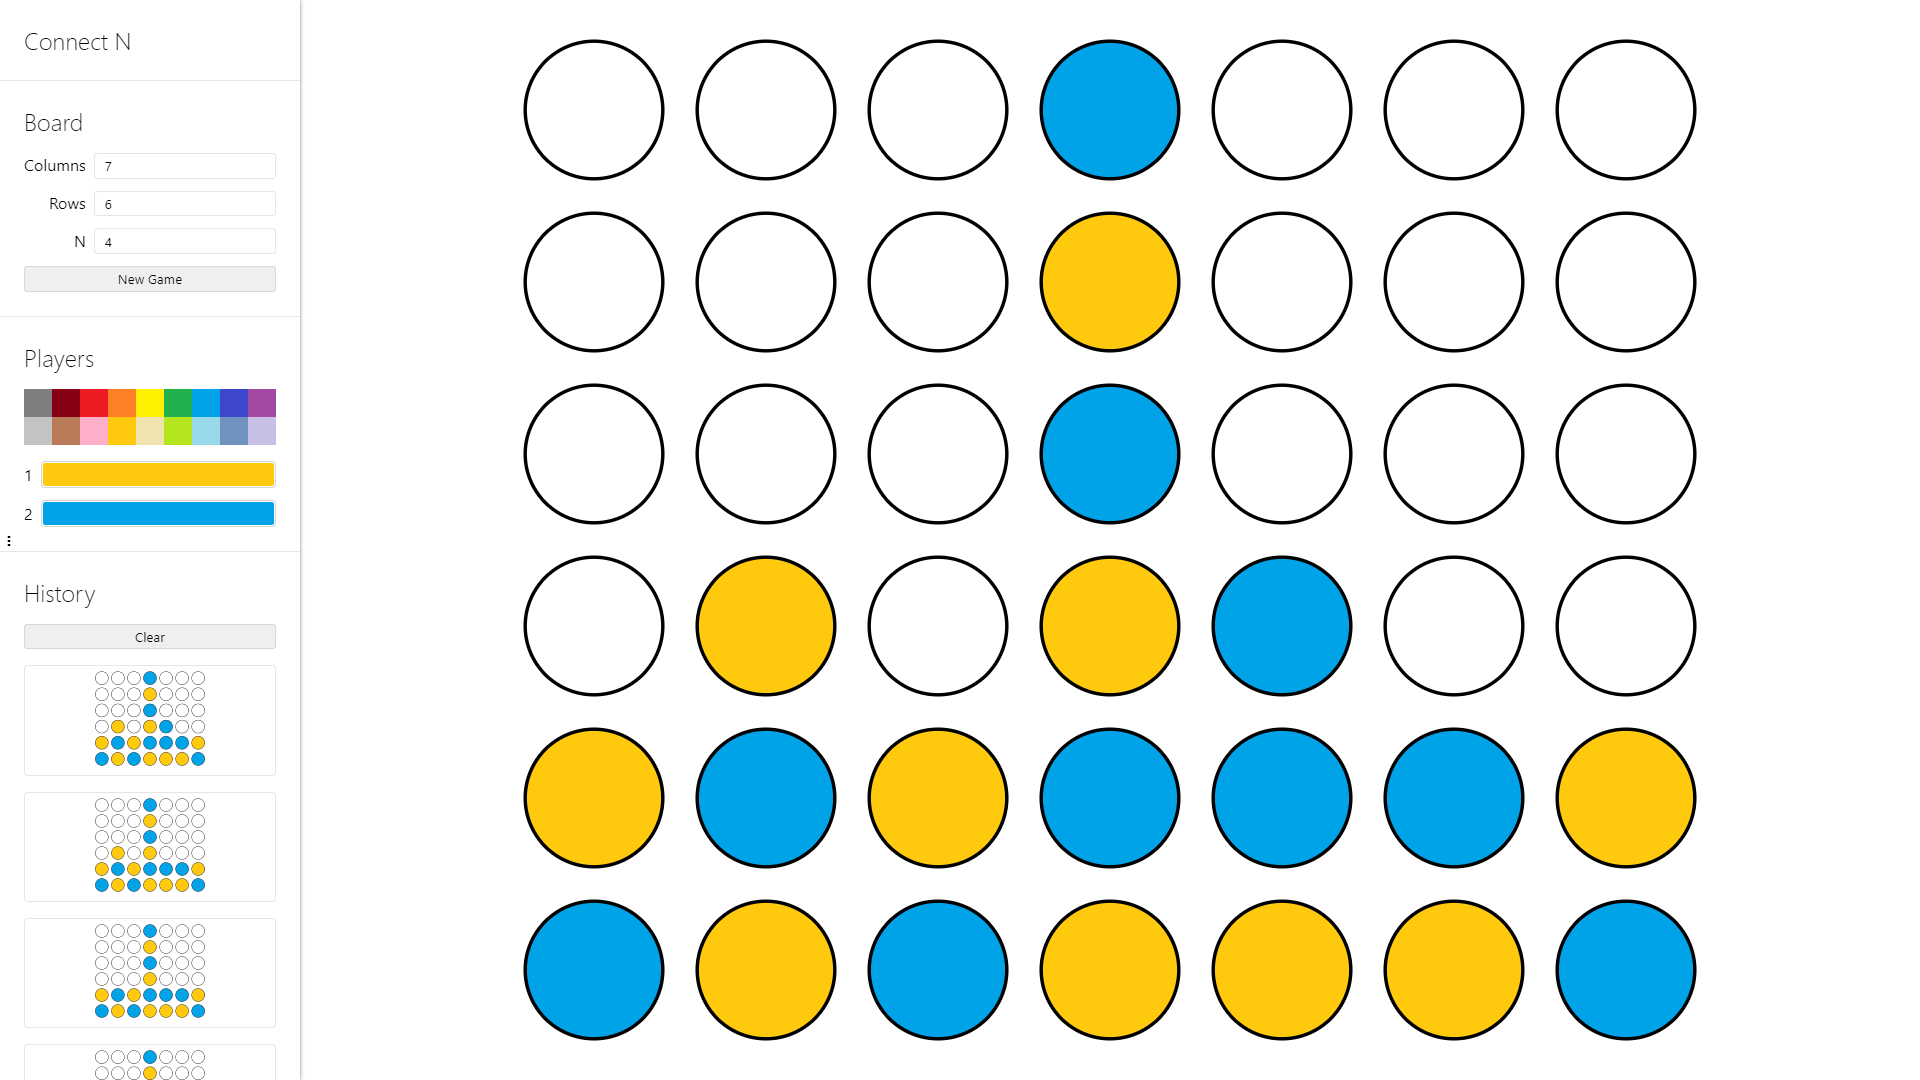
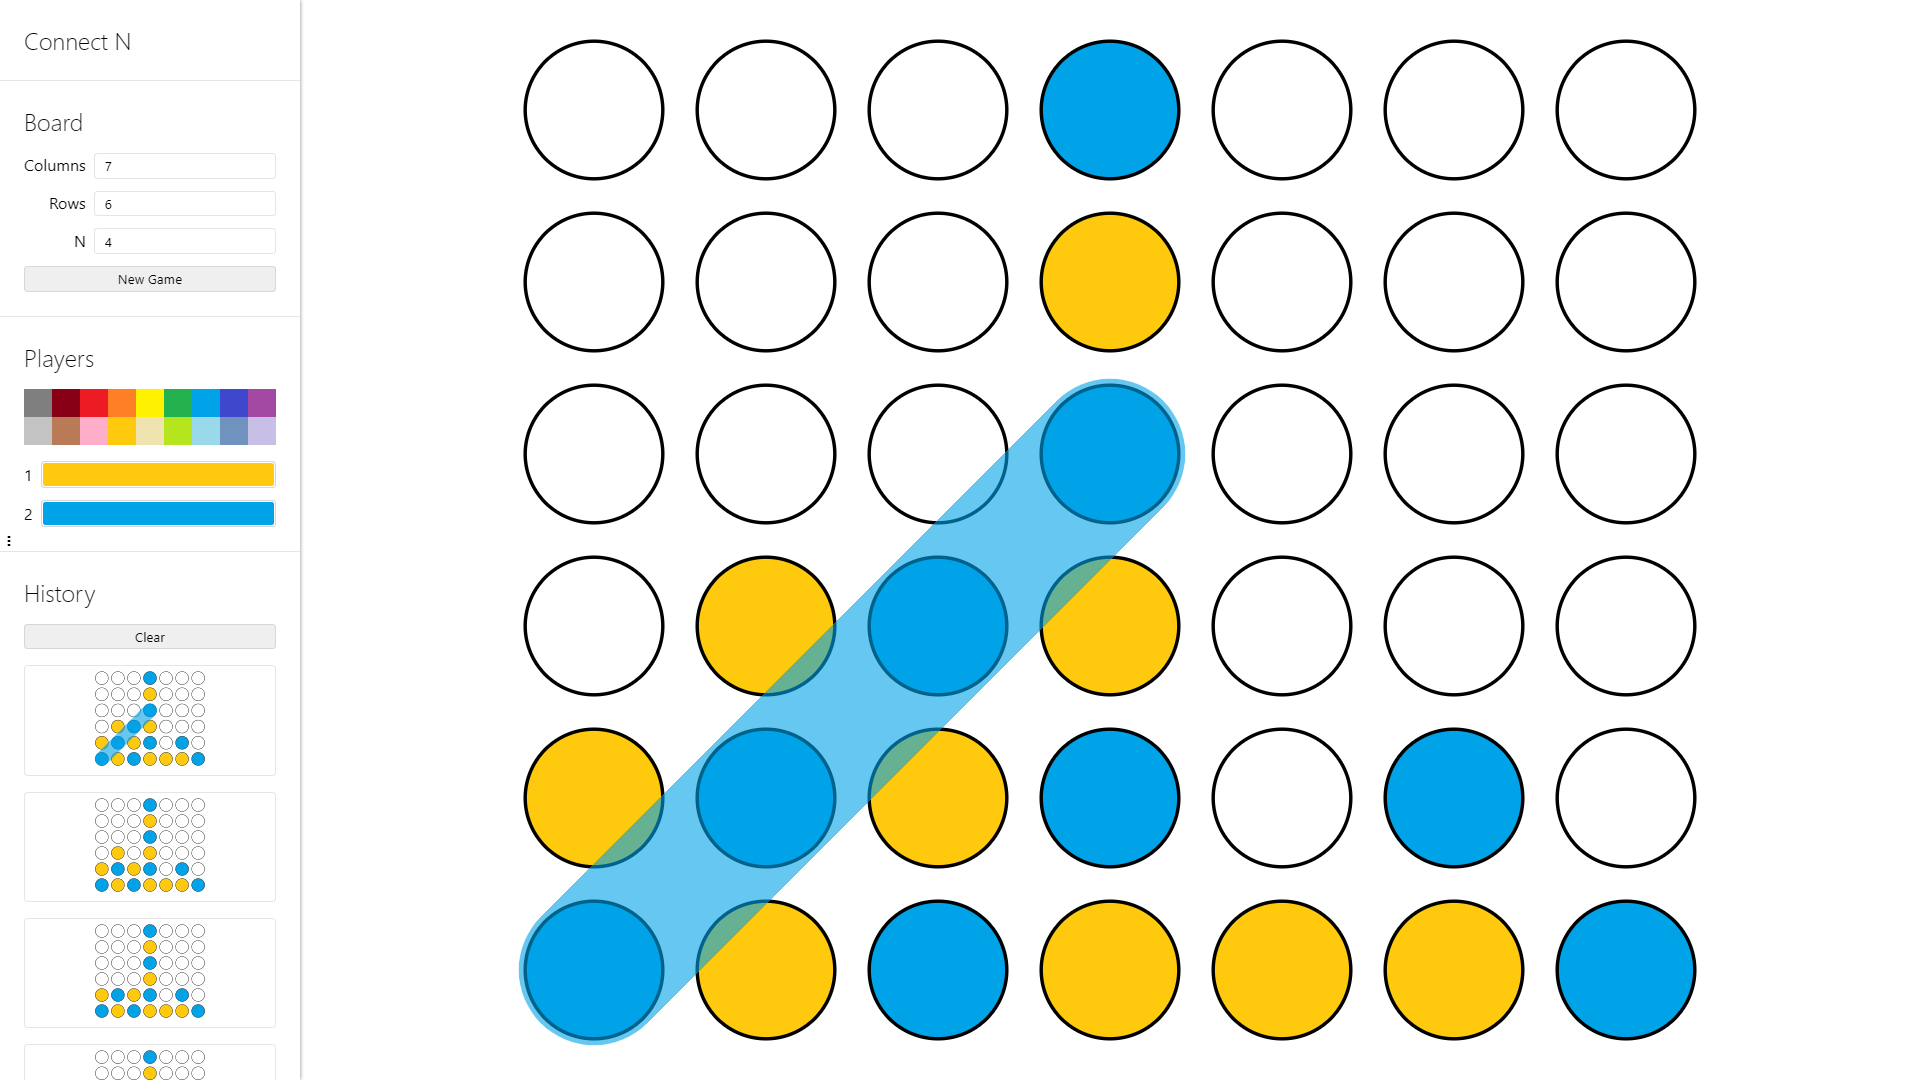
Add winning pieces indicator

diff --git a/src/connect-n.js b/src/connect-n.js
@@ -16,6 +16,7 @@
  * 	occupancies: ReadonlyArray<number>;
  * 	board: ReadonlyArray<ReadonlyArray<number>>;
  * 	winner: number;
+ * 	winningPieces: ReadonlyArray<ReadonlyArray<number>>;
  * 	draw: boolean;
  * }>} Game
  */
@@ -48,6 +49,7 @@ export function newGame(settings = newSettings()) {
 		occupancies: Object.freeze(Array(settings.columnCount).fill(0)),
 		board: emptyBoard(settings.columnCount, settings.rowCount),
 		winner: -1,
+		winningPieces: Object.freeze([]),
 		draw: false,
 	});
 }
@@ -95,6 +97,8 @@ export function makeMove(game, columnIndex) {
 		...previousBoard.slice(columnIndex + 1),
 	]);
 
+	const winningPieces = getWinningPieces(game.settings, board, columnIndex, rowIndex, activePlayer);
+
 	return Object.freeze({
 		...game,
 		piecesPlayed,
@@ -105,7 +109,8 @@ export function makeMove(game, columnIndex) {
 			...previousTargetRows.slice(columnIndex + 1),
 		]),
 		board,
-		winner: isWinner(game.settings, board, columnIndex, rowIndex, activePlayer) ? activePlayer : -1,
+		winner: winningPieces.length > 0 ? activePlayer : -1,
+		winningPieces,
 		draw: piecesPlayed === game.settings.slotCount,
 	});
 }
@@ -116,78 +121,70 @@ export function makeMove(game, columnIndex) {
  * @param {number} columnIndex
  * @param {number} rowIndex
  * @param {number} activePlayer
- * @returns {boolean}
+ * @returns {ReadonlyArray<ReadonlyArray<number>>}
  */
-export function isWinner(settings, board, columnIndex, rowIndex, activePlayer) {
+export function getWinningPieces(settings, board, columnIndex, rowIndex, activePlayer) {
 	const { columnCount, rowCount, piecesToWin } = settings;
 
-	let horizontal = 0;
-	let firstMatchFound = false;
+	const horizontalMatches = [];
 	for (let c = Math.max(columnIndex - (piecesToWin - 1), 0); c < Math.min(columnIndex + piecesToWin, columnCount); c++) {
 		if (board[c][rowIndex] === activePlayer) {
-			firstMatchFound = true;
-			horizontal++;
-		} else if (firstMatchFound) {
+			horizontalMatches.push(Object.freeze([c, rowIndex]));
+		} else if (horizontalMatches.length > 0) {
 			break;
 		}
 	}
-	if (horizontal >= piecesToWin) {
-		return true;
+	if (horizontalMatches.length >= piecesToWin) {
+		return Object.freeze(horizontalMatches);
 	}
 
-	let vertical = 0;
-	firstMatchFound = false;
+	const verticalMatches = [];
 	for (let r = Math.max(rowIndex - (piecesToWin - 1), 0); r < Math.min(rowIndex + piecesToWin, rowCount); r++) {
 		if (board[columnIndex][r] === activePlayer) {
-			firstMatchFound = true;
-			vertical++;
-		} else if (firstMatchFound) {
+			verticalMatches.push(Object.freeze([columnIndex, r]));
+		} else if (verticalMatches.length > 0) {
 			break;
 		}
 	}
-	if (vertical >= piecesToWin) {
-		return true;
+	if (verticalMatches.length >= piecesToWin) {
+		return Object.freeze(verticalMatches);
 	}
 
-	let diagonal = 0;
-	firstMatchFound = false;
+	const diagonal45Matches = [];
 	for (let i = -(piecesToWin - 1); i <= piecesToWin - 1; i++) {
 		const c = columnIndex + i;
 		const r = rowIndex + i;
 
 		if (c >= 0 && c < columnCount && r >= 0 && r < rowCount) {
 			if (board[c][r] === activePlayer) {
-				firstMatchFound = true;
-				diagonal++;
-			} else if (firstMatchFound) {
+				diagonal45Matches.push(Object.freeze([c, r]));
+			} else if (diagonal45Matches.length > 0) {
 				break;
 			}
 		}
 	}
-	if (diagonal >= piecesToWin) {
-		return true;
+	if (diagonal45Matches.length >= piecesToWin) {
+		return Object.freeze(diagonal45Matches);
 	}
 
-	diagonal = 0;
-	firstMatchFound = false;
+	const diagonal135Matches = [];
 	for (let i = -(piecesToWin - 1); i <= piecesToWin - 1; i++) {
 		const c = columnIndex + i;
 		const r = rowIndex - i;
 
 		if (c >= 0 && c < columnCount && r >= 0 && r < rowCount) {
 			if (board[c][r] === activePlayer) {
-				firstMatchFound = true;
-				diagonal++;
-			} else if (firstMatchFound) {
+				diagonal135Matches.push(Object.freeze([c, r]));
+			} else if (diagonal135Matches.length > 0) {
 				break;
 			}
 		}
 	}
-	if (diagonal >= piecesToWin) {
-		return true;
+	if (diagonal135Matches.length >= piecesToWin) {
+		return Object.freeze(diagonal135Matches);
 	}
 
-	return false;
+	return Object.freeze([]);
 }
 
 /**

diff --git a/src/connect-n-board.js b/src/connect-n-board.js
@@ -7,7 +7,7 @@ export class ConnectNBoard extends HTMLElement {
 	shadowRoot = this.attachShadow({ mode: 'open' });
 	disabled = false;
 	/**@type {import('./connect-n.js').Game | undefined}*/#game;
-	/**@type {SVGElement | undefined}*/#svg;
+	/**@type {SVGSVGElement | undefined}*/#svg;
 	/**@type {Map<string, SVGCircleElement>}*/#slots = new Map();
 
 	constructor() {
@@ -31,7 +31,11 @@ export class ConnectNBoard extends HTMLElement {
 				this.#slots.set(slot.dataset.columnIndex + ',' + slot.dataset.rowIndex, slot);
 			});
 
-			if (!this.disabled && !gameOver(game)) {
+			if (gameOver(game)) {
+				// highlightWinningPieces relies on getBBox which requires the element to be connected to the DOM, so we must perform this function on the next event loop tick
+				Promise.resolve().then(() => this.highlightWinningPieces(game.winningPieces, game.winner));
+			}
+			else if (!this.disabled) {
 				svg.style.setProperty('--cursor', `var(--player-${game.activePlayer}-cursor)`);
 			}
 
@@ -81,6 +85,7 @@ export class ConnectNBoard extends HTMLElement {
 
 				if (gameOver(nextGame)) {
 					this.#svg?.style.removeProperty('--cursor');
+					this.highlightWinningPieces(nextGame.winningPieces, nextGame.winner);
 				}
 				else {
 					this.#svg?.style.setProperty('--cursor', `var(--player-${nextGame.activePlayer}-cursor)`);
@@ -88,6 +93,32 @@ export class ConnectNBoard extends HTMLElement {
 			}
 		}
 	};
+
+	/**
+	 * @param {ReadonlyArray<ReadonlyArray<number>>} winningPieces
+	 * @param {number} winner
+	 */
+	highlightWinningPieces(winningPieces, winner) {
+		if (this.#svg && Array.isArray(winningPieces)) {
+			const start = this.#svg.querySelector(`[data-column-index='${winningPieces[0]?.[0]}'][data-row-index='${winningPieces[0]?.[1]}']`);
+			if (start instanceof SVGGraphicsElement) {
+				const end = this.#svg.querySelector(`[data-column-index='${winningPieces.at(-1)?.[0]}'][data-row-index='${winningPieces.at(-1)?.[1]}']`);
+				if (end instanceof SVGGraphicsElement) {
+					const c1 = start.getBBox();
+					const c2 = end.getBBox();
+					const line = document.createElementNS('http://www.w3.org/2000/svg', 'line');
+					line.classList.add('winning-line');
+					line.style.setProperty('stroke', `var(--player-${winner}-color`);
+					line.setAttribute('x1', String(c1.x + c1.width / 2));
+					line.setAttribute('y1', String(c1.y + c1.height / 2));
+					line.setAttribute('x2', String(c2.x + c1.width / 2));
+					line.setAttribute('y2', String(c2.y + c1.height / 2));
+					this.#svg.querySelector('.winning-line')?.remove();
+					this.#svg.querySelector('.board')?.append(line);
+				}
+			}
+		}
+	}
 }
 
 export const styleSheet = new CSSStyleSheet();

diff --git a/src/connect-n-game.js b/src/connect-n-game.js
@@ -97,7 +97,7 @@ export class ConnectNGame extends HTMLElement {
 		this.#historyContainer = /**@type {HTMLDivElement}*/(menu.querySelector('.history'));
 		/**@type {HTMLButtonElement}*/(menu.querySelector('.clear-history')).addEventListener('click', () => this.#historyContainer.replaceChildren());
 
-		const palette = /**@type {SVGElement}*/(menu.querySelector('.palette'));
+		const palette = /**@type {SVGSVGElement}*/(menu.querySelector('.palette'));
 		palette.addEventListener('click', (event) => {
 			if (event.target instanceof SVGRectElement) {
 				const fill = event.target.getAttribute('fill');
@@ -402,6 +402,11 @@ styleSheet.replaceSync(/*css*/`
 	.board {
 		padding: var(--connect-n-game-padding);
 		flex: 1;
+	}
+
+	.palette {
+		user-select: none; /* prevent nearby text selection */
+		shape-rendering: crispEdges;
 	}
 `);
 

diff --git a/src/connect-n-svg.js b/src/connect-n-svg.js
@@ -2,6 +2,7 @@
  * @param {import('./connect-n.js').Game} game
  * @param {(column: SVGRectElement) => void} [columnCallback]
  * @param {(slot: SVGCircleElement) => void} [slotCallback]
+ * @returns {SVGSVGElement}
  */
 export function connectNSvg(game, columnCallback, slotCallback) {
 	const width = game.settings.columnCount * 100;
@@ -43,6 +44,12 @@ export function connectNSvg(game, columnCallback, slotCallback) {
 			stroke: var(--slot-stroke-color);
 			stroke-width: calc(var(--board-min-dimension) * var(--slot-stroke-width-multiplier));
 			pointer-events: none;
+		}
+
+		.winning-line {
+			stroke-width: calc(var(--board-min-dimension) * 7/8);
+			stroke-linecap: round;
+			opacity: 0.6;
 		}
 	`;
 

diff --git a/service-worker.js b/service-worker.js
@@ -1,6 +1,6 @@
 /// <reference lib='webworker' />
 
-const version = '1.0.4';
+const version = '1.0.5';
 const cacheName = 'connect-n-' + version;
 
 const assets = [
